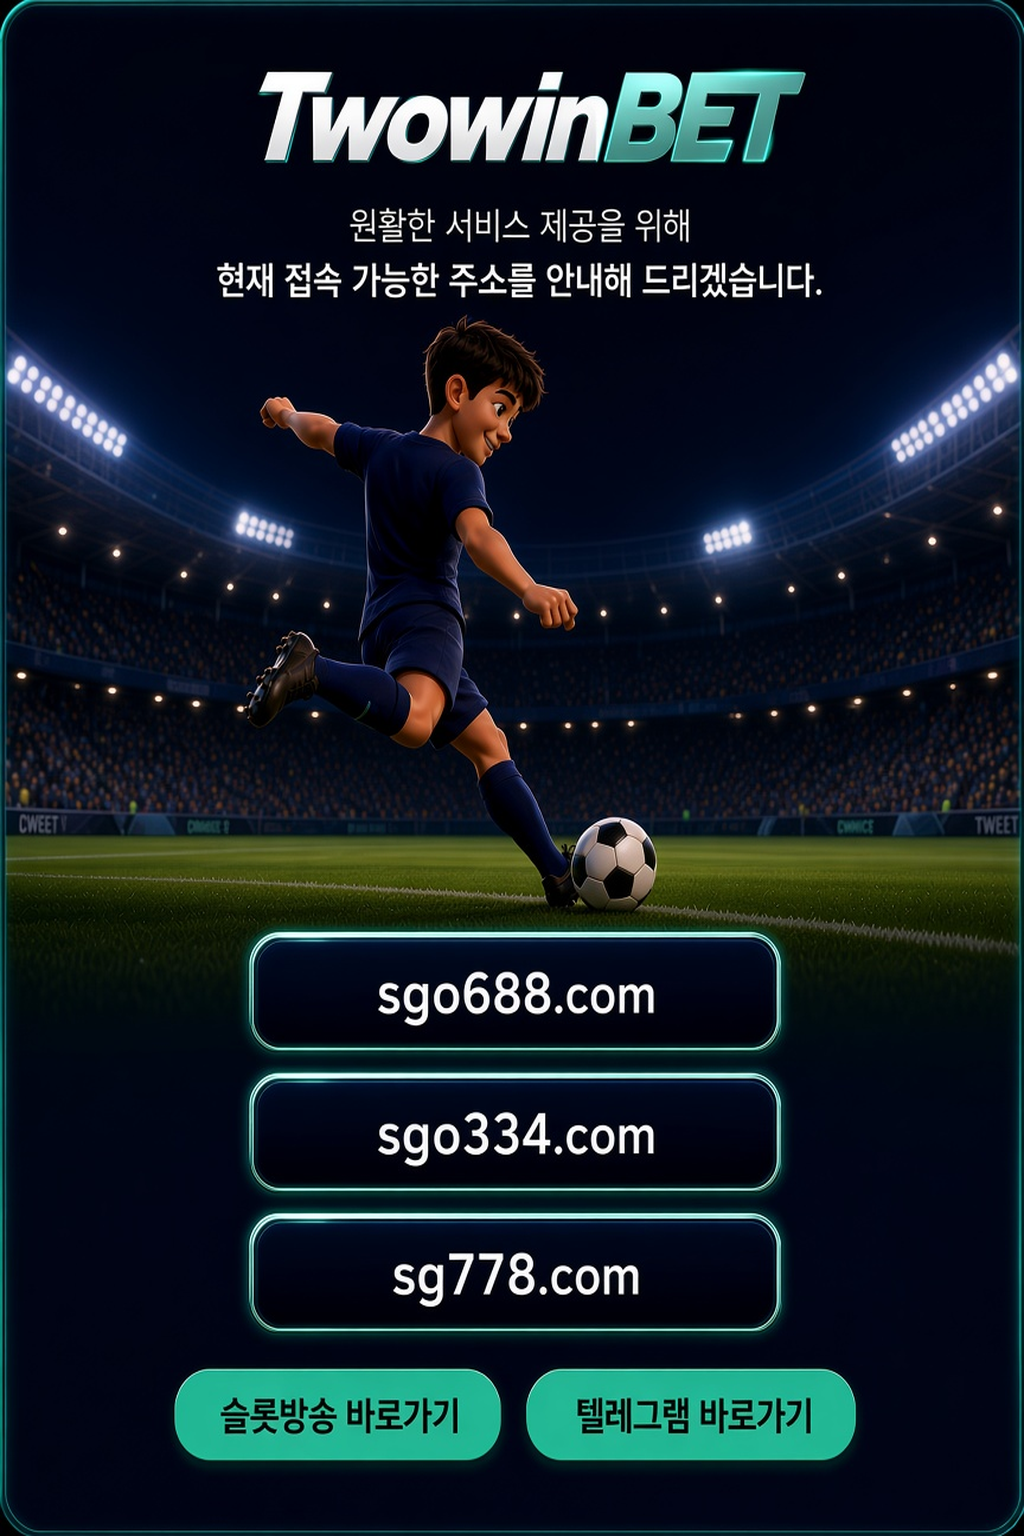
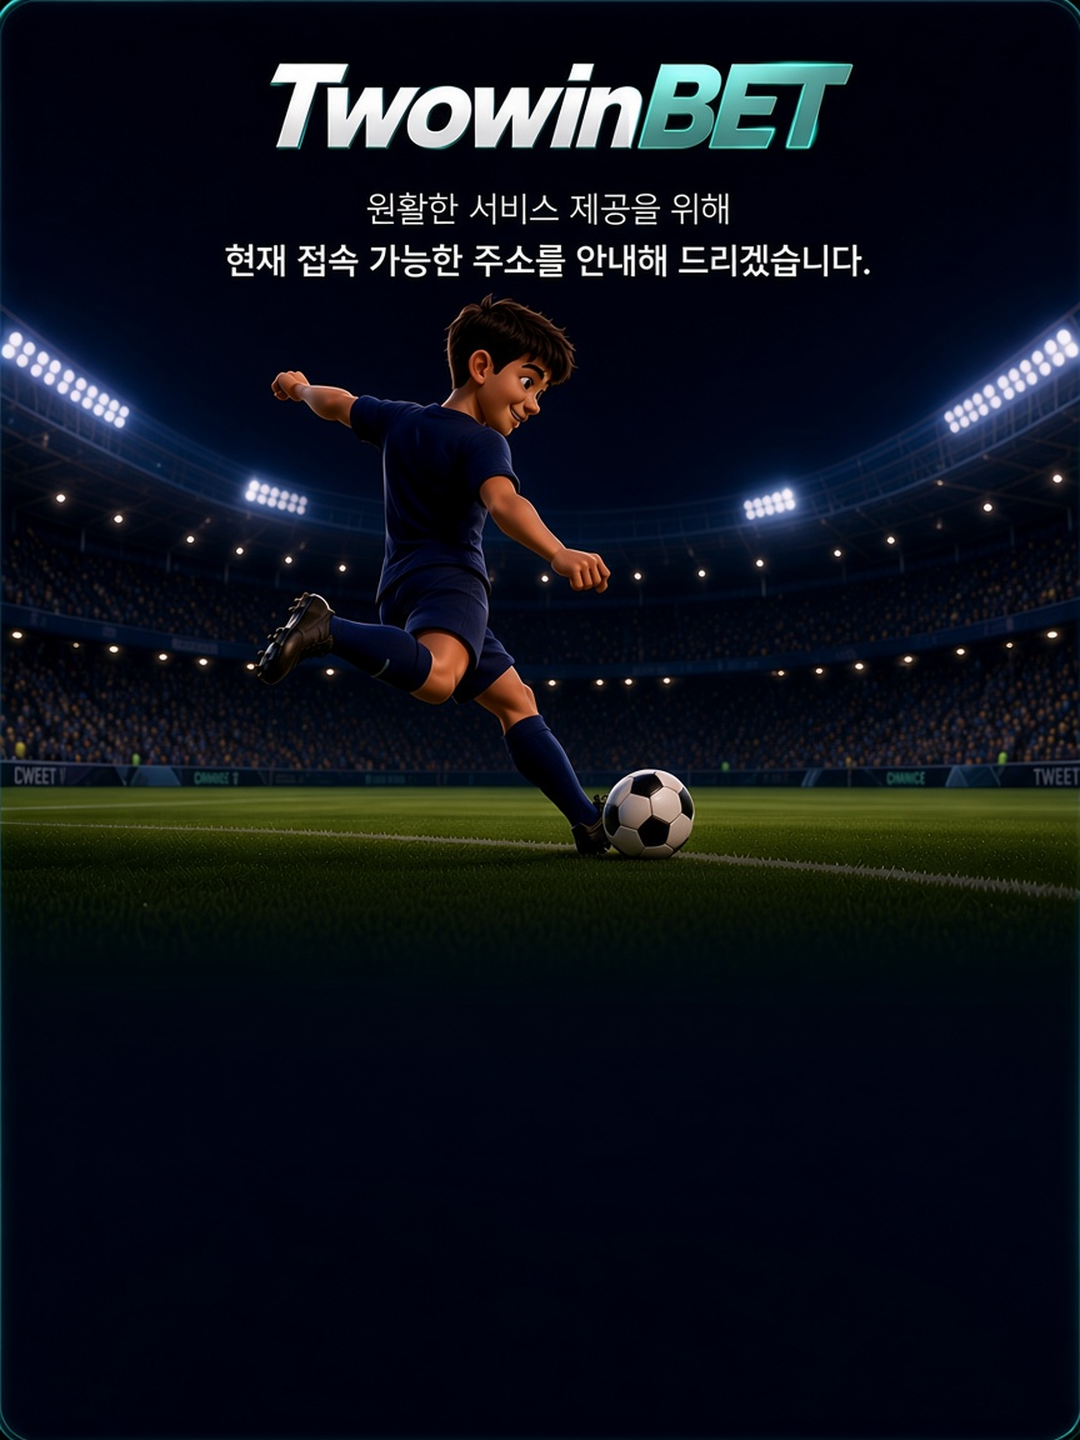
Match click-address pattern: cover background + HTML CTAs always visible

diff --git a/index.html b/index.html
@@ -6,81 +6,146 @@
   <title>투윈BET 접속 안내</title>
   <meta name="robots" content="noindex,nofollow" />
   <style>
-    :root { --navy: #122430; --mint: #2EE8A8; }
+    :root {
+      --navy: #122430;
+      --mint: #2EE8A8;
+      --mint-dim: rgba(46, 232, 168, 0.22);
+    }
     * { box-sizing: border-box; margin: 0; padding: 0; }
     html, body {
       width: 100%;
-      height: 100%;
-      overflow: hidden;
+      min-height: 100%;
       background: var(--navy);
+      color: #fff;
+      font-family: -apple-system, BlinkMacSystemFont, "Apple SD Gothic Neo", "Noto Sans KR", sans-serif;
       -webkit-tap-highlight-color: transparent;
     }
-    /* scale-to-fit (contain): 이미지 전부 보이되, 뷰포트는 네이비로 채움 */
-    .frame {
-      position: fixed;
-      top: 50%;
-      left: 50%;
-      transform: translate(-50%, -50%);
-      line-height: 0;
+    .page {
+      position: relative;
+      min-height: 100dvh;
+      width: 100%;
+      display: flex;
+      flex-direction: column;
+      align-items: center;
+      justify-content: center;
+      padding: 24px 16px 28px;
+      overflow: hidden;
     }
-    .art {
+    .bg {
+      position: fixed;
+      inset: 0;
+      z-index: 0;
+      pointer-events: none;
+    }
+    .bg img {
       width: 100%;
       height: 100%;
+      object-fit: cover;
+      object-position: center top;
       display: block;
-      object-fit: fill;
-      user-select: none;
-      pointer-events: none;
-      -webkit-user-drag: none;
     }
-    .hotspot {
+    .bg::after {
+      content: "";
       position: absolute;
-      display: block;
-      z-index: 2;
-      border-radius: 12px;
+      inset: 0;
+      background: linear-gradient(180deg, rgba(18,36,48,0.15) 0%, rgba(18,36,48,0.35) 45%, rgba(18,36,48,0.82) 100%);
     }
-    .hotspot:focus-visible {
-      outline: 2px solid var(--mint);
-      outline-offset: 2px;
+    .panel {
+      position: relative;
+      z-index: 1;
+      width: 100%;
+      max-width: 420px;
+      display: flex;
+      flex-direction: column;
+      align-items: center;
+      gap: 12px;
+      margin-top: min(38vh, 340px);
     }
-
-    /* PC: 16:9 contain — 잘림 없이 전체 표시 */
-    @media (min-width: 901px) {
-      .frame {
-        width: min(100vw, calc(100svh * 16 / 9));
-        height: min(100svh, calc(100vw * 9 / 16));
-      }
-      .hs-d1 { left: 36.7%; top: 31.9%; width: 26.6%; height: 7.6%; }
-      .hs-d2 { left: 36.7%; top: 43.1%; width: 26.6%; height: 7.6%; }
-      .hs-d3 { left: 36.7%; top: 54.2%; width: 26.6%; height: 7.6%; }
-      .hs-slot { left: 33.6%; top: 80.6%; width: 16.4%; height: 5.6%; border-radius: 999px; }
-      .hs-tg { left: 51.6%; top: 80.6%; width: 16.4%; height: 5.6%; border-radius: 999px; }
-    }
-
-    /* 모바일: 2:3 contain — 슬롯/텔레그램까지 전부 보이게 */
     @media (max-width: 900px) {
-      .frame {
-        width: min(100vw, calc(100svh * 2 / 3));
-        height: min(100svh, calc(100vw * 3 / 2));
-      }
-      .hs-d1 { left: 25.8%; top: 60.9%; width: 48.8%; height: 7.4%; }
-      .hs-d2 { left: 25.8%; top: 70.1%; width: 48.8%; height: 7.4%; }
-      .hs-d3 { left: 25.8%; top: 79.2%; width: 48.8%; height: 7.4%; }
-      .hs-slot { left: 17.1%; top: 89.1%; width: 31.6%; height: 5.9%; border-radius: 999px; }
-      .hs-tg { left: 51.5%; top: 89.1%; width: 31.9%; height: 5.9%; border-radius: 999px; }
+      .panel { margin-top: min(42vh, 380px); max-width: 340px; }
+    }
+    .domains {
+      width: 100%;
+      display: flex;
+      flex-direction: column;
+      gap: 10px;
+    }
+    .domain {
+      display: flex;
+      align-items: center;
+      justify-content: center;
+      height: 54px;
+      border-radius: 14px;
+      text-decoration: none;
+      color: #fff;
+      font-weight: 800;
+      font-size: 1.15rem;
+      letter-spacing: 0.02em;
+      background: linear-gradient(180deg, #1a3a4d 0%, #0e2432 100%);
+      border: 1.5px solid var(--mint);
+      box-shadow:
+        0 0 0 1px rgba(46,232,168,0.15),
+        0 0 18px rgba(46,232,168,0.35),
+        inset 0 1px 0 rgba(255,255,255,0.08);
+    }
+    .domain:active { transform: scale(0.98); }
+    .cta-row {
+      width: 100%;
+      display: flex;
+      gap: 10px;
+      margin-top: 8px;
+    }
+    .cta {
+      flex: 1;
+      display: flex;
+      align-items: center;
+      justify-content: center;
+      height: 44px;
+      border-radius: 999px;
+      text-decoration: none;
+      color: #0a1a22;
+      font-weight: 800;
+      font-size: 0.92rem;
+      background: linear-gradient(180deg, #5ff0c0 0%, var(--mint) 100%);
+      box-shadow: 0 0 16px rgba(46,232,168,0.45);
+      white-space: nowrap;
+      padding: 0 10px;
+    }
+    .cta:active { transform: scale(0.98); }
+    .hint {
+      margin-top: 6px;
+      font-size: 0.78rem;
+      color: rgba(255,255,255,0.65);
+      text-align: center;
+      line-height: 1.45;
+    }
+    @media (min-width: 901px) {
+      .domain { height: 58px; font-size: 1.25rem; }
+      .cta { height: 48px; font-size: 1rem; }
+      .panel { max-width: 460px; }
     }
   </style>
 </head>
 <body>
-  <main class="frame" role="main" aria-label="투윈BET 접속 안내">
+  <div class="bg" aria-hidden="true">
     <picture>
       <source media="(max-width: 900px)" srcset="bg-mobile.png" />
-      <img class="art" src="bg.png" width="1280" height="720" alt="투윈BET 접속 안내" />
+      <img src="bg.png" alt="" />
     </picture>
-    <a class="hotspot hs-d1" href="https://sgo688.com" target="_blank" rel="noopener noreferrer" aria-label="sgo688.com"></a>
-    <a class="hotspot hs-d2" href="https://sgo334.com" target="_blank" rel="noopener noreferrer" aria-label="sgo334.com"></a>
-    <a class="hotspot hs-d3" href="https://sg778.com" target="_blank" rel="noopener noreferrer" aria-label="sg778.com"></a>
-    <a class="hotspot hs-slot" href="https://live.twowintv.com" target="_blank" rel="noopener noreferrer" aria-label="슬롯방송 바로가기"></a>
-    <a class="hotspot hs-tg" href="https://t.me/member_inquiry_cs_bot" target="_blank" rel="noopener noreferrer" aria-label="텔레그램 바로가기"></a>
+  </div>
+  <main class="page" role="main" aria-label="투윈BET 접속 안내">
+    <div class="panel">
+      <div class="domains">
+        <a class="domain" href="https://sgo688.com" target="_blank" rel="noopener noreferrer">sgo688.com</a>
+        <a class="domain" href="https://sgo334.com" target="_blank" rel="noopener noreferrer">sgo334.com</a>
+        <a class="domain" href="https://sg778.com" target="_blank" rel="noopener noreferrer">sg778.com</a>
+      </div>
+      <div class="cta-row">
+        <a class="cta" href="https://live.twowintv.com" target="_blank" rel="noopener noreferrer">슬롯방송 바로가기</a>
+        <a class="cta" href="https://t.me/member_inquiry_cs_bot" target="_blank" rel="noopener noreferrer">텔레그램 바로가기</a>
+      </div>
+      <p class="hint">위 주소를 누르면 사이트로 이동합니다.</p>
+    </div>
   </main>
 </body>
 </html>
